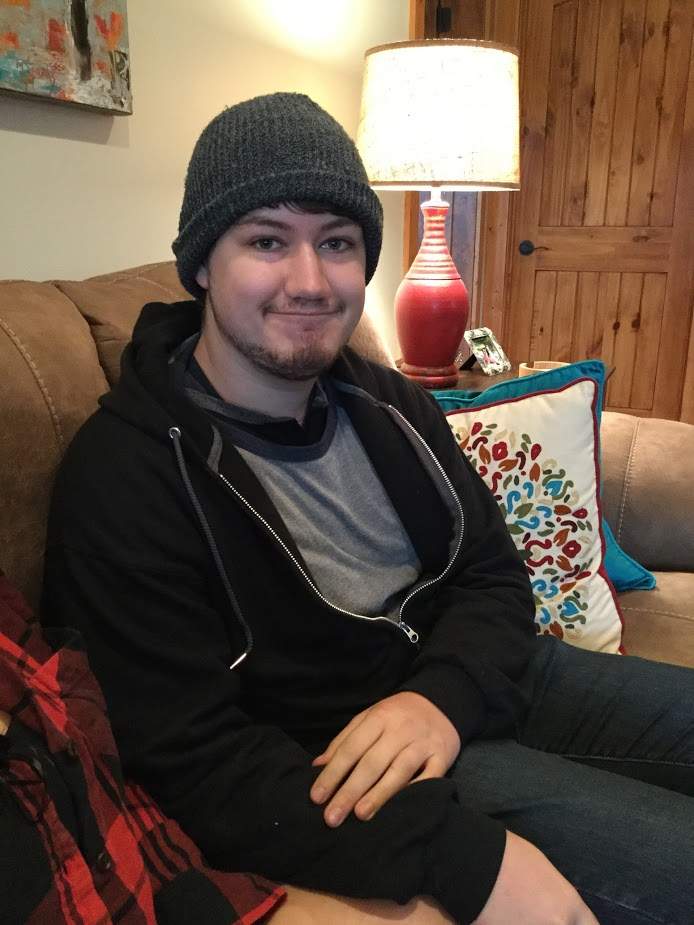
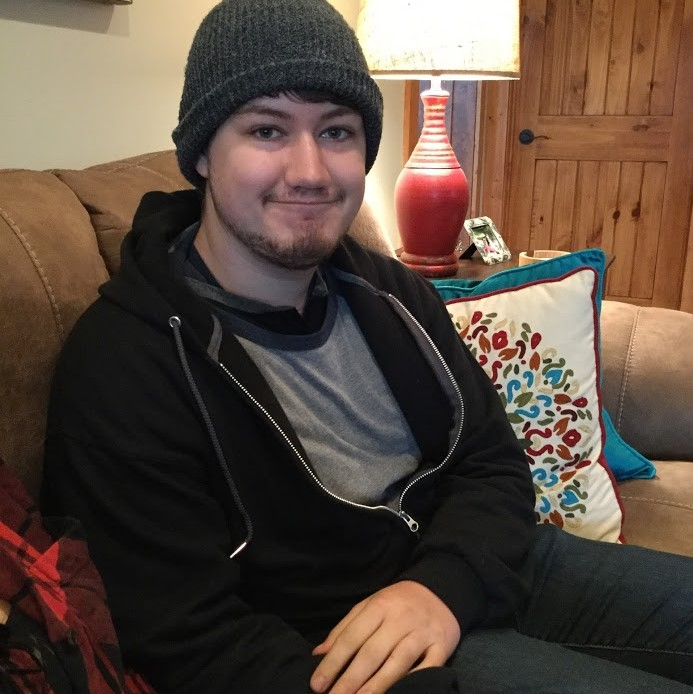
de-anime' d it to the best of my ability
ill work on the graphs after this

diff --git a/Okay/index.html b/Okay/index.html
@@ -23,11 +23,11 @@
 <body>
 <div id = "page-wrap">
     <div class="navbar">
-		<a href="#" id="blobchainAnchor"><b>HOME</b></a>
+        <a href="#" id="blobchainAnchor"><b>HOME</b></a>
+        <a href="#" id="accountAnchor"><b>ACCOUNT</b></a>
 		<a href="#" id="analyticsAnchor"><b>ANALYTICS</b></a>
         <a href="#" id="aboutAnchor"><b>ABOUT</b></a>
         <a href="#" id="teamAnchor"><b>TEAM</b></a>
-        <a href="#" id="accountAnchor"><b>ACCOUNT</b></a>
 	</div>
 
 	<main id="main" class="wrapper">
@@ -38,19 +38,16 @@
         </section>
             
             <section id="username">
-                <h1 id="usernameDisplay">please enter your username</h1>
+                <h1>please enter your username</h1>
                 <form>
-                    <input id="usernameField" type="text" maxlength= "32" placeholder="enter username...">
-                    <button id= "userSubmit" type="button" class="button">enter</button>
+                    <input id="usernameField" type="text" placeholder="enter username...">
+                    <button type="submit" class="button" onclick="sendUsername()">enter</button>
                 </form>
             </section>
 
             <section id="spacer"></section>
             
             <section id="boxes" class='container'>
-                    <div class="h100container">
-                            <font color="white"> <h100> Useful Links: </h100> </font>
-                        </div>
                 <div class="box">
                     <a href="https://metamask.io/">
                         <img src="images/metamask-logo.png">
@@ -61,10 +58,10 @@
         
                 <div class="box">
                     <a href="https://en.wikipedia.org/wiki/Blockchain">
-                        <img src="images/z_bakugou1.gif">
+                        <img src="images/blockchainthing.jpg">
                     </a>
                     <h1>Blockchain </h1>
-                    <p>This is what a blockchain is</p>
+                    <p>This is what a blockchain is, it's cool</p>
                 </div>
         
                 <div class="box">
@@ -77,7 +74,7 @@
         
                 <div class="box">
                     <a href="https://coinmarketcap.com/">
-                        <img src="images/z_zoe.gif">
+                        <img src="images/bitcoin-exchange.jpg">
                     </a>
                     <h1>Currency Rates</h1>
                     <p>The constant, everchanging numbers of cryptocurrency</p>
@@ -88,19 +85,92 @@
                         <img src="images/Synapse.png">
                     </a>
                     <h1>Synapse</h1>
-                    <p>This is a COOL PLACE with some AWESOME challenges</p>
+                    <p>all-encompassing, interactive, and flexible methodology for building, facilitating, and exposing the Entrepreneurial Ecosystem of Florida.</p>
                 </div>
 
                 <div class="box">
-                        <a href="http://bokunoheroacademia.wikia.com/wiki/Katsuki_Bakugo">
-                            <img src="images/favorite bakugou.gif">
+                        <a href="https://bitcoin.org/en/">
+                            <img src="images/Bitcoin.png">
                         </a>
-                        <h1>Bakubae</h1>
-                        <p>look at this high level best boy ZOE PLEASE</p>
+                        <h1>Bitcoin</h1>
+                        <p>a type of digital currency in which encryption techniques are used to regulate the generation of units of currency and verify the transfer of funds</p>
                 </div>
             </section>
 
             <section id="spacer"></section>
+            
+            <section id='account' class='container'>
+                <div class="h100container">
+                    <font color="white"> <h100>Account Info</h100> </font>
+                </div>
+
+                <p></p>
+
+                <form>
+                    <input id="stepField" type="text" placeholder="enter steps...">
+                    <button type="submit" class="button" onclick="sendSteps()">enter</button>
+                </form>
+
+                <p></p>
+
+                <form>
+                    <input id="weightField" type="text" placeholder="enter weight...">
+                    <button type="submit" class="button" onclick="sendWeight()">enter</button>
+                </form>
+
+                <p></p>
+
+                <form>
+                    <input id="calorieField" type="text" placeholder="enter calories...">
+                    <button type="submit" class="button" onclick="sendCalories()">enter</button>
+                </form>
+
+                <p></p>
+
+                <form>
+                    <input id="heartrateField" type="text" placeholder="enter heartrate...">
+                    <button type="submit" class="button" onclick="sendHeartrate()">enter</button>
+                </form>
+
+                <p></p>
+
+                <form>
+                    <!-- <input id="newDevice" type="text" placeholder="new device?"> -->
+                    <button type="submit" class="button" onclick="newDevice()">new device? </button>
+                </form>
+
+                <p id='blockNum'></p>
+                <p id='accountNumber'></p>
+                <p id='accountBalance'></p>
+            </section>
+
+
+
+
+            <!--
+            <div class="container">
+                <div class="slider">
+                    <figure>
+                        <div class="slide">
+                            <img src="images/tracers.jpg">
+                        </div>
+                        <div class="slide">
+                            <img src="images/z_1.gif">
+                        </div>
+                        <div class="slide">
+                            <l> </l>
+                            <img src="images/naruto.jpg">
+                        </div>
+                        <div class="slide">
+                            <img src="images/z_mood.gif">
+                        </div>
+                        <div class="slide">
+                            <img src="images/lover.jpg">
+                        </div>
+                    </figure>
+                </div>
+            </div>
+-->
 
             <section id="spacer"></section>
 
@@ -108,59 +178,9 @@
                 <div class="h100container">
                     <font color="white"> <h100> ANALYTICS: </h100> </font>
                 </div>
-
-                <p> Graphs to track the stats LIIIINA <!--LINA PLEASE -->
+                <p> Graphs hopefully to track the stats
                     <img src="images/z_idk.gif">
                 </p>
-
-                <p id="weightTest"> weight here</p>
-            </section>
-
-            <section id="spacer"></section>
-
-            <section id='account' class='container'>
-                <div class="h100container">
-                    <font color="white"> <h100>Update Data</h100> </font>
-                </div>
-
-                <p></p>
-
-                <form>
-                    <input id="stepField" type="number" min = "0" placeholder="enter steps...">
-                    <button type="button" class="button" onclick="sendSteps()">enter</button>
-                </form>
-
-                <p></p>
-
-                <form>
-                    <input id="weightField" type="number" min = "0" placeholder="enter weight...">
-                    <button type="button" class="button" onclick="sendWeight()">enter</button>
-                </form>
-
-                <p></p>
-
-                <form>
-                    <input id="calorieField" type="number" min = "0" placeholder="enter calories...">
-                    <button type="button" class="button" onclick="sendCalories()">enter</button>
-                </form>
-
-                <p></p>
-
-                <form>
-                    <input id="heartrateField" type="number" min = "0" placeholder="enter heartrate...">
-                    <button type="button" class="button" onclick="sendHeartrate()">enter</button>
-                </form>
-
-                <p></p>
-
-                <!-- <form> -->
-                    <!-- <input id="newDevice" type="text" placeholder="new device?"> -->
-                    <!-- <button type="button" class="button" onclick="sendUsername()">new device? </button> -->
-                <!-- </form> -->
-
-                <p id='blockNum'></p>
-                <p id='accountNumber'></p>
-                <p id='accountBalance'></p>
             </section>
             
             <section id="spacer"></section>
@@ -170,31 +190,24 @@
                         <font color="white"> <h100> ABOUT: </h100> </font>
                     </div>
                 <p>
-                    The Blobchain Initiative is an endeavor to allow the everyday person to track their progress towards whatever health goals they may have in an easy way.
-                    Our desire is to see people inspired by our app to increase their activity levels and better monitor their health habits. We find that when you're shown
-                    your own statistics, you're automatically driven to make them better (like in a videogame). So for all of our users: Get out there, get going, and stay strong.
-                </p>
-                <p>
+                    The Blobchain Initiative is an endeavor to allow the everyday person to track their progress towards whatever health goals they may have in an easy way. Our
                     <img src="images/z_zoe.gif">
                 </p>
             </section>
 
             <section id="spacer"></section>
             
+
             <section id="team">
                 <div class="container">
                     <div class="h100container">
                         <font color="white"> <h100> TEAM: </h100> </font>
                     </div>
                     <p>
-                        This team consists of 4 amazingly smart students currently working towards their bachelor's degrees in Computer Science. They came together through
-                        being roommates, but more importantly through having the same awesome programming teacher, Dr. Dean Bushey (hence the group name). They came into 
-                        this with minimal knowledge of web design, and no knowledge of smart contracts or decentralized apps, and now here they are. With a moderately nice app
-                        that just has a few hiccups here and there.
-                    </p>
+                        so this team consists of 4 super cool people</p>
                     <div class="box">
                         <a href="https://www.linkedin.com/in/kyle-thomas-755131a4/">
-                            <img src="images/kyle_about.jpg">
+                            <img src="images/kyle_about2.jpg">
                         </a>
                         <h1> Kyle </h1>
                         <p> Team Lead - Backend/Smart Contract Developer</p>
@@ -205,12 +218,12 @@
                             <img src="images/lina_about.jpg">
                         </a>
                         <h1> Lina </h1>
-                        <p> Team Driver - Front End/Functionality Developer </p>
+                        <p> Team Driver - Front End Developer/Functionality Developer </p>
                     </div>
             
                     <div class="box">
                         <a href="https://www.linkedin.com/in/zoe-sewell-84065a141/">
-                            <img src="images/z_zoe2.gif">
+                            <img src="images/zoeface2.jpg">
                         </a>
                         <h1> Zoe </h1>
                         <p> Creativity Director - Front End Developer/Designer</p>
@@ -229,21 +242,21 @@
                 </div>
             </section>
             <section id="spacer"></section>
+
     </main>
     
     <footer id="footer">
-        <a href="#home" class="active">home</a>
-        <a href="fetchSleepData()">other button</a>
+        <a href="#" id="blobchainAnchor">home</a>
+        <a href="#other">other button</a>
     </footer>
 
 	<!-- Libraries -->
     <script src="https://cdnjs.cloudflare.com/ajax/libs/jquery/3.3.1/jquery.min.js"></script>
-    <script src="https://unpkg.com/jso/dist/jso.js"></script> <!--Quinn, not sure why but I had to remove the %22%3E off the end for this to work -->
+    <script src="https://unpkg.com/jso/dist/jso.js"></script> <!--Quinn, not sure why but I had to remove the %22%3E for this to work -->
     <script src="https://www.gstatic.com/charts/loader.js"></script> <!--For creating line graphs of the data-->
 
 	<!-- Scripts -->
     <script src="script/index.js"></script>
-    <script src="Sources/sdk-oauth-master/app/index.js"></script>
 
 	<!-- Inline Script -->
 	<script>
@@ -285,12 +298,6 @@
                 event.preventDefault();
 
                 document.getElementById("account").scrollIntoView({ block: 'start', behavior: 'smooth' });
-            });
-
-            $("#userSubmit").on("click", function(event) {
-                event.preventDefault();
-
-                sendUsername();
             });
 
             setup();
